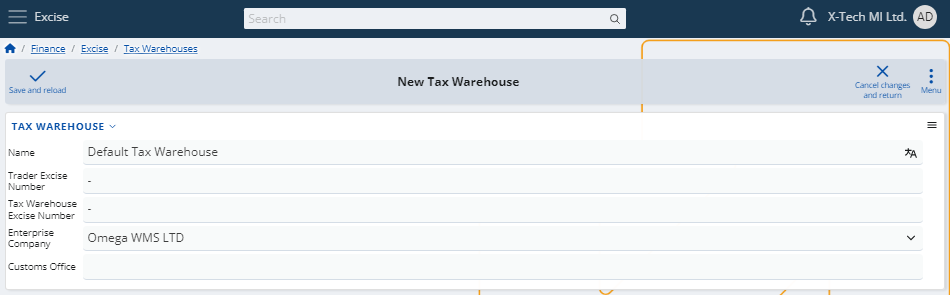
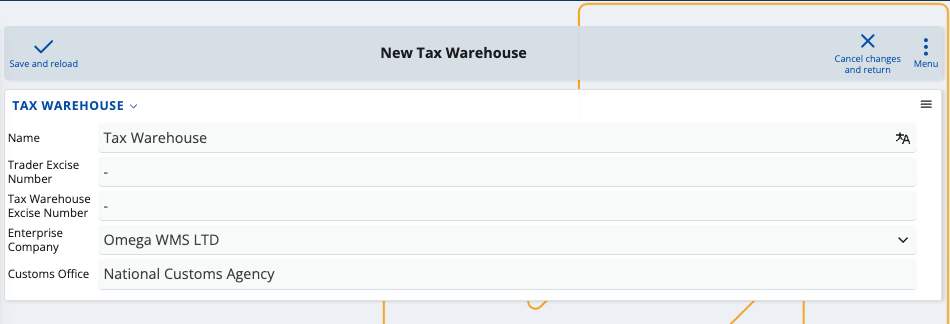
Latest changes from buid bot: 8:47 AM

Changed region(s): [[0.0, 0.0, 1.0, 1.0], [0.6105, 0.9763, 0.6411, 1.0]]

diff --git a/docs/modules/financials/excise/index.html b/docs/modules/financials/excise/index.html
@@ -79,53 +79,85 @@
             <article class="content wrap" id="_content" data-uid="">
 <h1 id="excise">Excise</h1>
 
-<p>According to EU legislation, certain products like alcohol and cigarettes need to be taxed additionally whenever they are imported into a given warehouse. This one-time <strong>excise tax</strong> is also due as soon as the product itself is manufactured, and is universal for <strong>all excise products</strong> across the EU.</p>
-<p>The <strong>Excise</strong> module is designed to assist enterprises in meeting their legal duties to regional custom agencies or other institutions requiring excise taxes. Using its available resources, you can create and generate various documents and <a href="definitions/index.html">definitions</a> related to your excise payments. They must all eventually be included in a final <strong>excise declaration</strong>.</p>
-<p><img src="pictures/Document_View.png" alt="Excise"></p>
+<p>According to EU legislation, certain products like alcoholic beverages, beer and cigarettes are subject to <strong>excise tax</strong> whenever they are imported into a warehouse. This one-time fee is also due if the warehouse itself manufactures the products.</p>
+<p>The <strong>Excise</strong> module is designed to assist businesses in meeting their legal duties to regional custom agencies or other institutions requiring excise taxes. Using its resources, you can create and generate all the necessary <strong><a href="documents/index.html">documents</a></strong> and <strong><a href="definitions/index.html">definitions</a></strong> related to your excise payments. At the end of each month, they are all included in a final <strong>excise declaration</strong>.</p>
+<p><img src="pictures/excise_modules.png" alt="Excise"></p>
 <div class="NOTE">
 <h5>Note</h5>
-<p>The EU Excise legislation is applicable to all member states, but there are regional differences in how documents are filled and submitted. Excise can currently be used <strong>only</strong> in Bulgaria and features only alcoholic drinks as excise-taxable products. Categories outside of this scope will <strong>not</strong> be taxed.</p>
+<p>The EU Excise legislation is applicable to all member states and affects all excise products, but there are regional differences in how documents are filled and submitted. For example, since Excise can currently be used in Bulgaria, it is legally obligated to feature alcoholic drinks as excise-taxable products. Product categories outside of this scope are <strong>not</strong> taxed.</p>
 </div>
 <h2 id="overview">Overview</h2>
-<p>In order to use this module, you first need to define a digital <strong>tax warehouse</strong>. Its purpose is to store all manufactured or imported products which are registered under the common Excise law.</p>
-<p>Owning such a warehouse obligates you to provide regular <strong>reports</strong> of the movements of all excise products. By law, these documents need to be sent over to the customs office and/or your regional tax-collecting agency.</p>
-<p>For example, if a product enters your tax warehouse, a particular <strong>transaction document</strong> needs to be created to reflect the excise tax payment for this operation. The same is true if the product leaves the warehouse either to be sold to a store or moved to another warehouse.</p>
-<p>In these cases, filling out an <strong>electronic administrative document</strong> allows you to include the respective incoming or outgoing transaction. Excise is equipped with other templates and definitions for most day-to-day scenarios.</p>
-<p><img src="pictures/New_Tax_Warehouse.png" alt="Excise"></p>
+<p>The main process flow in Excise goes like this:</p>
+<blockquote>
+<p><em>Tax Warehouse</em> → <em>Issue/Receipt Transactions</em> → <em>Excise Stamp Operations</em> → <em>Excise Declaration</em></p>
+</blockquote>
+<h2 id="tax-warehouse">Tax warehouse</h2>
+<p>To use this module, you first need to define a digital <strong>tax warehouse</strong>.</p>
+<p>Its purpose is to store all of your manufactured and imported products which are registered under the common Excise law.</p>
+<p>It requires a name and special <strong>numbers</strong> for validation, provided by your customs agency.</p>
+<p><img src="pictures/new_tax_warehouses.png" alt="Excise"></p>
 <div class="NOTE">
 <h5>Note</h5>
 <p>Tax warehouses are <strong>not</strong> tied to a physical location. They are completely <strong>digital</strong> and you can link them to any or all of your existing warehouses, which unites them under one common environment.</p>
 </div>
+<h2 id="issuereceipt-transactions">Issue/Receipt transactions</h2>
+<p>Owning a tax warehouse obligates you to generate <strong>transaction documents</strong> for everything that happens to your excise products.</p>
+<p>By law, these documents must be exported and sent over to the customs office and/or your regional tax-collecting agency.</p>
+<p><strong>Example:</strong></p>
+<ul>
+<li><p>If a product enters your tax warehouse, <strong>receipt</strong> transactions need to be created to reflect the excise tax for this operation.</p>
+</li>
+<li><p>If a product is sold or leaves your tax warehouse for another, generating the respective <strong>issue</strong> transactions will be necessary.</p>
+</li>
+</ul>
+<p>When products are imported from or exported to another tax warehouse, the <strong>electronic administrative document (e-AD)</strong> allows you to report each transaction. If operations are limited to your tax warehouse, you must fill an <strong>electronic excise tax document (e-ETD)</strong> instead.</p>
+<p><img src="pictures/eead.png" alt="Excise"></p>
 <h3 id="definitions">Definitions</h3>
-<p>You can take advantage of a variety of <strong>system</strong> and <strong>custom</strong> definitions. The module allows you to both use and create new excise product types and categories, purpose codes, duty rates and many other entities required for tax documents.</p>
-<p><img src="pictures/excise_product_def.png" alt="Excise"></p>
+<p>You can take advantage of a variety of <strong>system</strong> and <strong>custom</strong> definitions.</p>
+<p>Excise allows you to both use and create new excise product <a href="definitions/excise-products.html">types</a>, <a href="definitions/excise-categories.html">categories</a>, and <a href="definitions/other-excise-definitions.html">other entities</a> required for transaction documents.</p>
+<p><img src="pictures/definitions_excise.png" alt="Excise"></p>
 <div class="NOTE">
 <h5>Note</h5>
-<p>Some excise-related definitions are auto-generated while others like product type and capacity need to be manually set-up. It is <strong>impossible</strong> to submit a document without specifying a type for all of your excise products.</p>
+<p>Some excise-related definitions are auto-generated while others need to be manually set-up. It is <strong>not possible</strong> to submit a document without defining a <strong>product type</strong> for all of your excise products.</p>
+</div>
+<p>Once you fill a transaction document, you must export it as an <strong>XML file</strong> and send it to your taxing authority and/or customs office.</p>
+<h2 id="excise-stamp-operations">Excise stamp operations</h2>
+<p>When excise products are manufactured, imported or exported from a tax warehouse, they need to have a <strong>stamp</strong> placed on them.</p>
+<p>In the case of alcoholic beverages, for example, every bottle must have a <strong>banderol stamp</strong>.</p>
+<p><img src="pictures/banderol_documents.png" alt="Excise"></p>
+<p>You can create new banderol stamps and relate them to specific <strong>operation types</strong> such as:</p>
+<ul>
+<li>Received from the customs (ReceivedExciseLabels)</li>
+<li>Placed on the bottles within the tax warehouse (UsedExciseLabels)</li>
+<li>Returned and unused (ReturnedUnusedExciseLabels)</li>
+</ul>
+<p>In most cases, banderol stamps are provided by the customs office and placed on every bottle of alcohol.</p>
+<p>Reporting all the stamps you have used is a <strong>compulsory section</strong> of the final excise declaration.</p>
+<div class="NOTE">
+<h5>Note</h5>
+<p>Banderol stamps have unique serial numbers, emission and date of placement. When creating a banderol report, you generate another <strong>transaction document</strong> which includes the excise operation type, related products and number of used stamps. It is possible for fewer stamps to be placed than originally received.</p>
 </div>
 <h2 id="excise-declaration">Excise declaration</h2>
-<p>Once filled, a transaction document must be exported as an <strong>XML file</strong> and sent to the relevant taxing authority and/or customs office.</p>
-<p>Unless otherwise stated, you need to include <strong>all</strong> of your monthly transactions in a final <strong>excise declaration</strong>. This document unites the product movements you have reported for the month and further delivers summarized excise status information.</p>
+<p>As a legal requirement, <strong>all</strong> of your monthly transactions are automatically included in a final <strong>excise declaration</strong>.</p>
+<p>It unites the transaction documents you have reported for the month, summarizes your product availability and excise payments, and includes a banderol stamping report.</p>
 <div class="NOTE">
 <h5>Note</h5>
-<p>Customs offices may have the legal right to also electronically scan the movements of products in and out of your tax warehouse. Additional <strong>transactions</strong> will be generated for each operation and you <strong>must</strong> include them in the final excise declaration.</p>
+<p>Customs offices may have the legal right to also electronically scan the movements of products in and out of your tax warehouse. Additional <strong>transactions</strong> will be generated for each operation and are automatically included in the final excise declaration.</p>
 </div>
-<p><img src="pictures/New_Excise_Administrative_Document.png" alt="Excise"></p>
-<p>A typical declaration includes the following:</p>
+<p><img src="pictures/excise_declare.png" alt="Excise"></p>
+<p>A typical excise declaration has the following sections:</p>
 <ol>
-<li>&quot;From&quot; and &quot;To&quot; date fields which constrain the scope of the declaration</li>
-<li>A list of excise products and their quantities</li>
-<li>Individual and total excise amount owed and paid</li>
-<li>Past and current availability of each excise product</li>
-<li>Incomes and expenses, including how many excise products were imported and exported</li>
-<li>Banderol stamping report</li>
+<li>Excise amount owed and paid for each issue/receipt transaction within the tax warehouse</li>
+<li>Past and current availability of each excise product in the tax warehouse, including incomes and expenses</li>
+<li>Banderol stamping report covering each banderol operation</li>
 </ol>
-<p>At any time, you can <strong>visualize</strong> this declaration and correct any encountered mistakes.</p>
-<p>When ready, you once again need to export it as an <strong>XML</strong> and send it to the respective taxing authority.</p>
+<p>At any time, you can <strong>visualize</strong> this declaration and correct any mistakes before officially submitting.</p>
+<p>When ready, you need to export it as an <strong>XML</strong> file and send it to the respective taxing authority.</p>
 <div class="NOTE">
 <h5>Note</h5>
-<p>Customs or other taxing authorities may need <strong>direct access</strong> to your ERP.net system in order to observe your tax warehouse. In the case of Bulgarian clients, for example, there's a separate environment offering the ability for custom agencies to generate reports and see which products are available in a tax warehouse for a specific period of time.</p>
+<p>Customs or other taxing authorities may need <strong>direct access</strong> to your ERP.net system in order to observe your tax warehouse. In the case of Bulgarian clients, for example, there's a <strong><a href="https://testdb-model.my.erp.net/legal">separate environment</a></strong> offering the ability for custom agencies to generate reports and see which products are available in a tax warehouse for a specific period of time.</p>
 </div>
+<p><img src="pictures/legalBGnew.png" alt="Excise"></p>
 <h3 id="post-excise">Post-excise</h3>
 <p>If your declaration meets all legal requirements, the excise tax is <strong>settled</strong> and products can be moved freely from one store to another.</p>
 <p>Learn more about Excise in the following articles:</p>

diff --git a/docs/modules/logistics/wms/how-it-works/recalculate-quantities.html b/docs/modules/logistics/wms/how-it-works/recalculate-quantities.html
@@ -5,9 +5,9 @@
   <head>
     <meta charset="utf-8">
     <meta http-equiv="X-UA-Compatible" content="IE=edge,chrome=1">
-    <title>Recalculating quantities in the WMS Worker | ERP.net Tech Docs </title>
+    <title>Recalculate quantities in the WMS Worker | ERP.net Tech Docs </title>
     <meta name="viewport" content="width=device-width">
-    <meta name="title" content="Recalculating quantities in the WMS Worker | ERP.net Tech Docs ">
+    <meta name="title" content="Recalculate quantities in the WMS Worker | ERP.net Tech Docs ">
     <meta name="generator" content="docfx 2.56.9.0">
     
     <link rel="shortcut icon" href="../../../../favicon.ico">
@@ -77,7 +77,7 @@
         <div class="article row grid-right">
           <div class="col-md-10">
             <article class="content wrap" id="_content" data-uid="">
-<h1 id="recalculating-quantities-in-the-wms-worker">Recalculating quantities in the WMS Worker</h1>
+<h1 id="recalculate-quantities-in-the-wms-worker">Recalculate quantities in the WMS Worker</h1>
 
 <p>If a product has a defined additional <strong>coding system</strong> with a default base measurement category, it is possible to <strong>recalculate</strong> the product's quantities when scanning in the WMS Worker app.</p>
 <p><strong>For example:</strong></p>
@@ -85,24 +85,33 @@
 <p>If no measurement category is set, the product will still be recognized but its default unit (e.g. 1pcs) will be taken into account instead.</p>
 <h3 id="prerequisites">Prerequisites</h3>
 <ol>
-<li><p>Make sure your product has a defined <strong>coding system</strong>.</p>
+<li><p>Make sure your product has a defined <strong><a href="/modules/general/products/coding-systems.md">coding system</a></strong>.</p>
 <p>You can find a list of all coding systems and create new ones on-demand in the <strong>Web Client</strong>.</p>
+<p><img src="pictures/coding_systems.png" alt="Picture"></p>
 </li>
-<li><p>Use the <strong>WMS Worker App</strong> to open an order and scan the product code of the coding system of the product(s).</p>
+<li><p>Use the <strong><a href="/modules/logistics/wms/wms-worker/index.md">WMS Worker App</a></strong> to start an order and scan the product code of the coding system of the product(s).</p>
 </li>
 </ol>
 <h2 id="how-it-works">How it works</h2>
 <p>Assuming your order consists of a box with several instances of products, you can scan their coding system's product code right away.</p>
 <ol>
 <li><p>Within the <strong>SCAN</strong> field, provide the respective code, or use your mobile device to scan the barcode of the box.</p>
+<p><img src="pictures/scan_coding_system.png" alt="Picture"></p>
 </li>
 <li><p>The standard <strong>Quantity</strong> step will be skipped and you will only need to select a <strong>lot</strong>.</p>
+<p><img src="pictures/lot_select.png" alt="Picture"></p>
 </li>
-<li><p>You will get a <strong>suggested</strong> quantity to add to the scan, which is based on the provided measurement unit of the coding system.</p>
+<li><p>You will get an <strong>auto-suggested</strong> product quantity based on the provided measurement unit of the coding system.</p>
+<p><img src="pictures/quantity_select.png" alt="Picture"></p>
 </li>
-<li><p>Click <strong>Next</strong> to confirm the operation. Several or all pcs of the product will be executed <strong>instantly</strong>.</p>
+<li><p>Tap <strong>Next</strong> to confirm the operation. Several or all pcs of your product will be executed <strong>instantly</strong>.</p>
+<p><img src="pictures/executed_all.png" alt="Picture"></p>
 </li>
 </ol>
+<div class="NOTE">
+<h5>Note</h5>
+<p>You can <strong>multiply</strong> a coding system's code just like a regular product unit. For instance, if the coding system has a default measurement unit of 25pcs, multiplying it by 4 will give you 100pcs of the product ready to be scanned in one-go.</p>
+</div>
 </article>
           </div>
           

diff --git a/docs/modules/toc.html b/docs/modules/toc.html
@@ -347,6 +347,9 @@
                                               <li>
                                                   <a href="logistics/wms/how-it-works/scan-field.html" name="" title="SCAN field">SCAN field</a>
                                               </li>
+                                              <li>
+                                                  <a href="logistics/wms/how-it-works/recalculate-quantities.html" name="" title="Recalculate product quantities">Recalculate product quantities</a>
+                                              </li>
                                         </ul>
                                     </li>
                                     <li>

diff --git a/docs/modules/logistics/wms/how-it-works/index.html b/docs/modules/logistics/wms/how-it-works/index.html
@@ -91,7 +91,7 @@
 <li><a href="barcode-parsers/p02.html">P02: GS1 - Single Product parser</a></li>
 <li><a href="barcode-parsers/p03.html">P03: GS1 – SSCC parser</a></li>
 <li><a href="task-types/pack.html">Pack task type</a></li>
-<li><a href="recalculate-quantities.html">Recalculating quantities in the WMS Worker</a></li>
+<li><a href="recalculate-quantities.html">Recalculate quantities in the WMS Worker</a></li>
 <li><a href="task-types/receive.html">Receive task type</a></li>
 <li><a href="task-types/index.html">Task types</a></li>
 <li><a href="task-types/unpack.html">Unpack task type</a></li>
